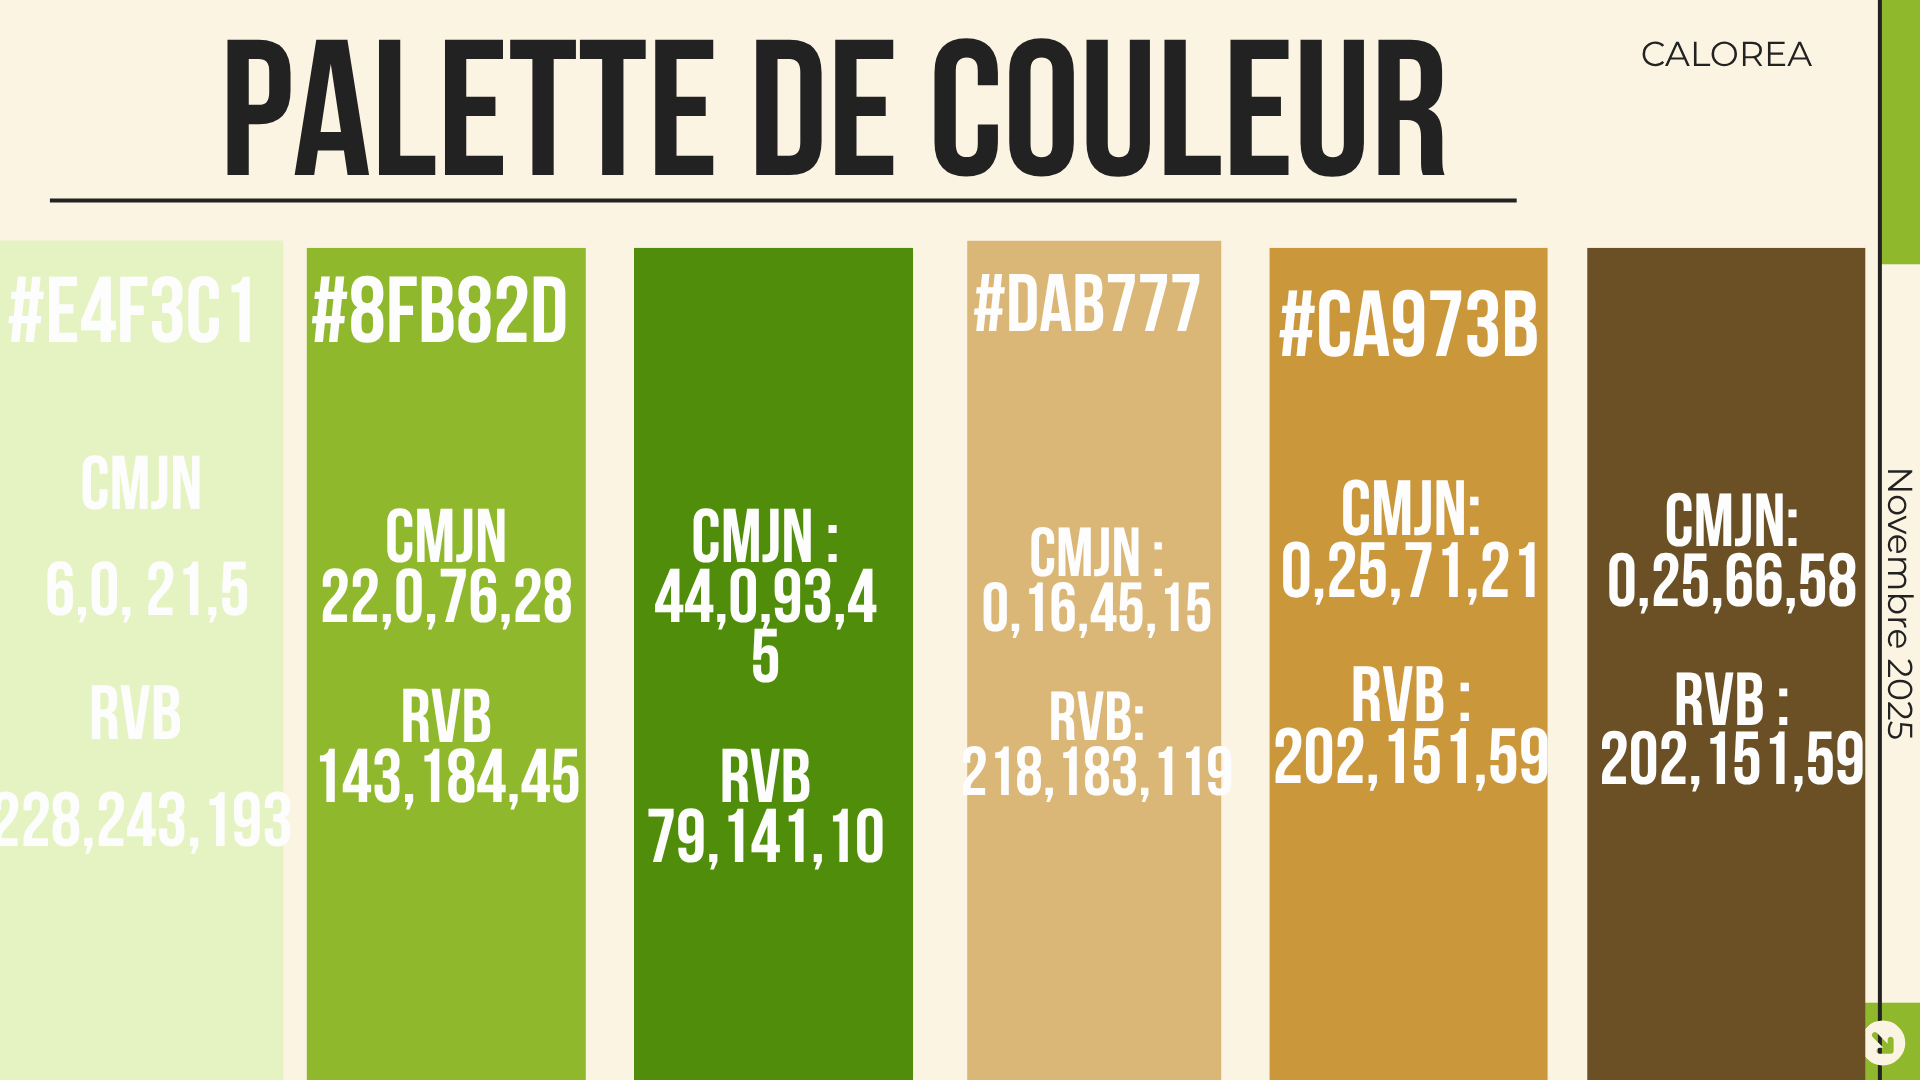
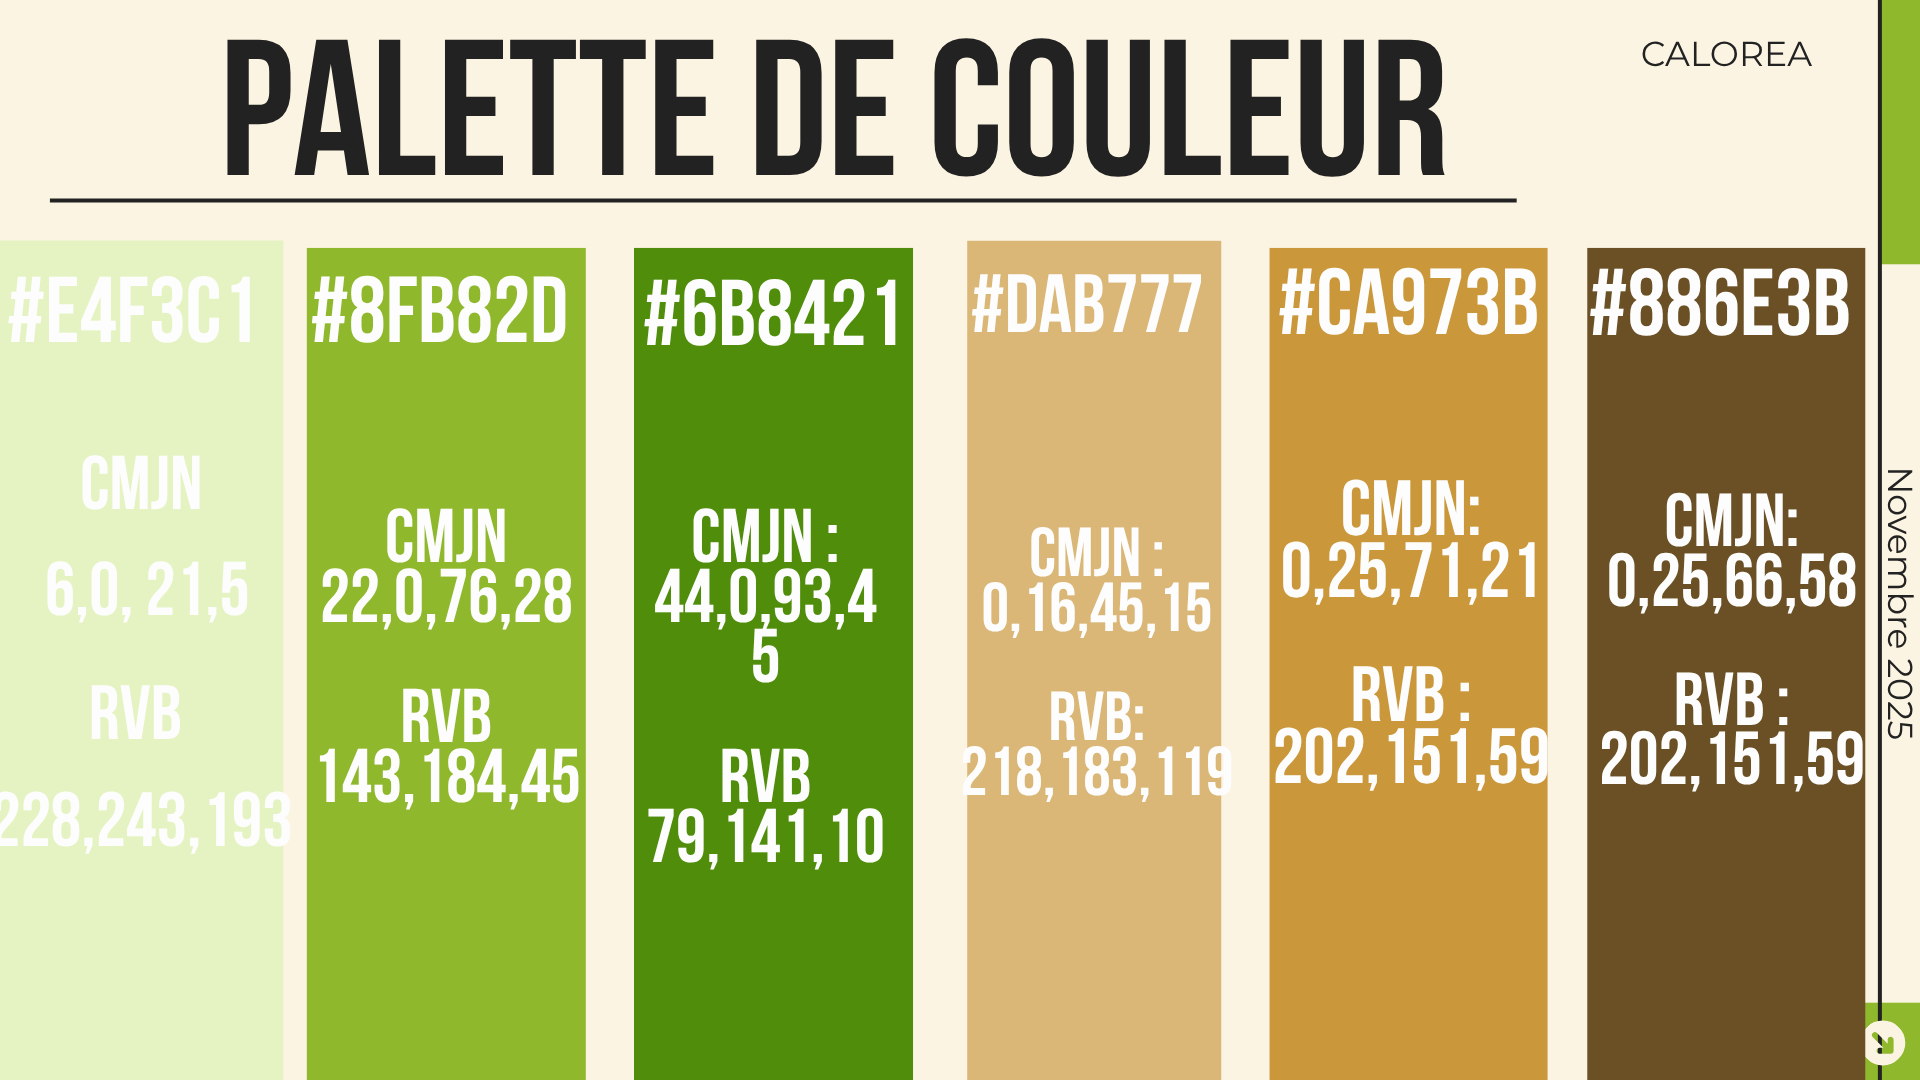
Update portfolio projects and CV

diff --git a/src/data/projects.ts b/src/data/projects.ts
@@ -16,7 +16,7 @@ export interface Project {
   descFr: string;
   descEn: string;
   tools: Tool[];
-  cover: string; // image used in list grid
+  cover: string; // image used in list grid and video poster
   media: { type: "image" | "video"; src: string; alt?: string }[];
 }
 
@@ -87,8 +87,21 @@ export const projects: Project[] = [
     descEn:
       "A short stop motion film made frame by frame. I worked on staging, rhythm, and editing to bring a simple idea to life with limited resources.",
     tools: ["Pr"],
-    cover: afficheEauVerte, // placeholder visual fallback; video drives detail page
+    cover: "/projects/stop-motion-cover.png",
     media: [{ type: "video", src: "/projects/stop-motion.mp4" }],
+  },
+  {
+    slug: "clip-video-is-it-a-crime",
+    category: "Audiovisuel",
+    titleFr: "Clip vidéo — Is It A Crime",
+    titleEn: "Music Video — Is It A Crime",
+    descFr:
+      "Un clip vidéo travaillé avec une esthétique VHS. J'ai construit l'ambiance visuelle, le rythme et les effets pour donner au morceau une atmosphère plus cinématographique.",
+    descEn:
+      "A music video built around a VHS aesthetic. I shaped the visual mood, rhythm, and effects to give the track a more cinematic atmosphere.",
+    tools: ["Ae", "Pr"],
+    cover: "/projects/is-it-a-crime-cover.png",
+    media: [{ type: "video", src: "/projects/is-it-a-crime-web.m4v" }],
   },
   {
     slug: "calorea",

diff --git a/src/pages/ProjectsList.tsx b/src/pages/ProjectsList.tsx
@@ -107,7 +107,7 @@ const ListInner = () => {
                 >
                   <div className="flex flex-col">
                     <div className="aspect-[4/5]">
-                      {p.media[0]?.type === "video" ? (
+                      {p.media[0]?.type === "video" && !p.cover ? (
                         <video
                           src={p.media[0].src}
                           muted

diff --git a/src/components/CategorySections.tsx b/src/components/CategorySections.tsx
@@ -142,6 +142,7 @@ const ProjectEditorialRow = ({
             {hasVideo && media?.type === "video" ? (
               <video
                 src={media.src}
+                poster={project.cover || undefined}
                 controls
                 playsInline
                 preload="metadata"

diff --git a/src/pages/ProjectDetail.tsx b/src/pages/ProjectDetail.tsx
@@ -224,6 +224,7 @@ const DetailInner = ({ slug }: { slug: string }) => {
                     {m.type === "video" ? (
                       <video
                         src={m.src}
+                        poster={project.cover || undefined}
                         controls
                         playsInline
                         className="w-full h-auto bg-black"